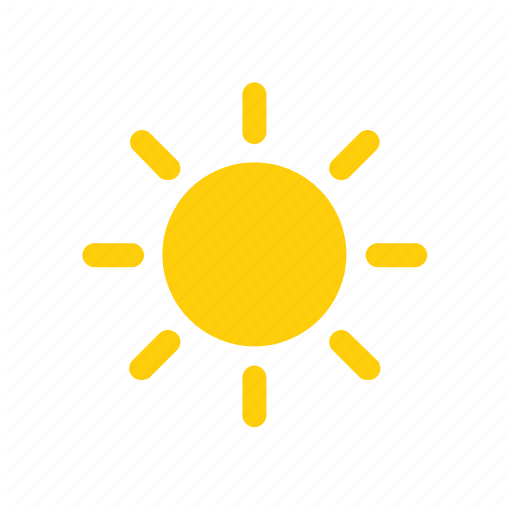
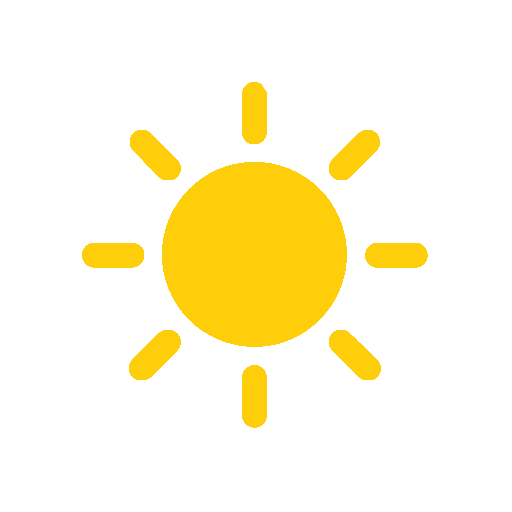
finish

diff --git a/Front/webapp/src/components/WeatherSimpleForecast/WeatherSimpleForecast.js b/Front/webapp/src/components/WeatherSimpleForecast/WeatherSimpleForecast.js
@@ -5,6 +5,9 @@ import cloudy from '../../images/cloudy.png';
 import sunny from '../../images/sunny.png';
 
 const WeatherSimpleForecast = props => {
+  const imgWidth = {
+    width: "80%"
+  }
   return (
     <Card style={{ width: props.style.width }}>
       <Card.Header>Simple Forecast</Card.Header>
@@ -12,7 +15,7 @@ const WeatherSimpleForecast = props => {
         <Card.Text>
           {props.data.isSuscribed === false ? CONFIG.FORECAST_UNAVAILABLE : props.data.forecast}
         </Card.Text>
-        <Card.Img variant="top" src={ props.data.isSunny ? sunny : cloudy }></Card.Img>
+        <Card.Img variant="top" style={imgWidth} src={ props.data.isSunny ? sunny : cloudy }></Card.Img>
       </Card.Body>
     </Card>
   );
